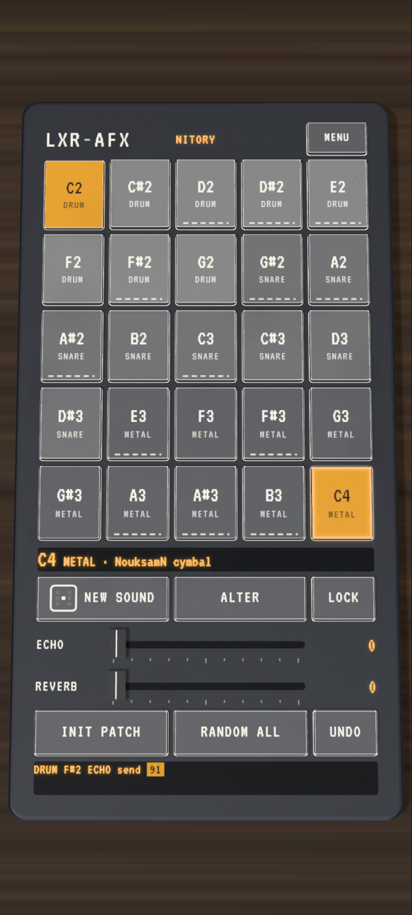
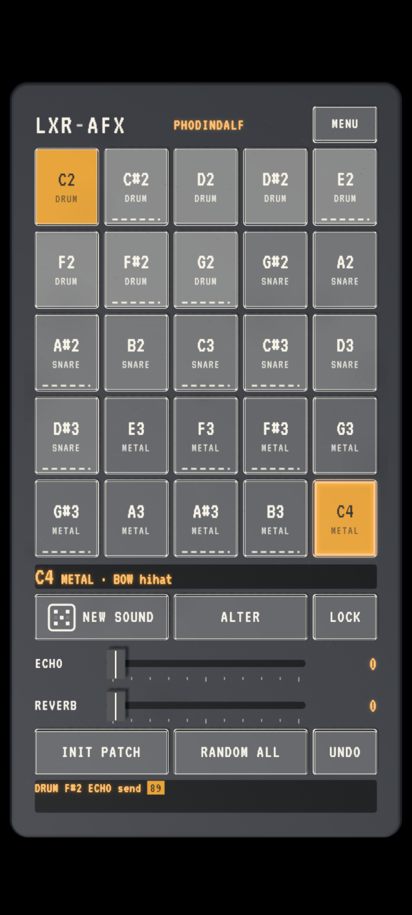
3D view: camera straight on, black around the panel (no desk)
Claude-Session: https://claude.ai/code/session_018ENZqU77miybkZNfffD9E3

diff --git a/app/view3d.js b/app/view3d.js
@@ -426,7 +426,7 @@ function setKnobGeo() {
   knobGeo.computeBoundingBox();
 }
 function build() {
-  scene = new THREE.Scene(); scene.background = new THREE.Color('#141516');
+  scene = new THREE.Scene(); scene.background = new THREE.Color('#000000'); // (Johnny: no desk, just blackness)
   camera = new THREE.PerspectiveCamera(24, 1, 100, 20000);
   const pm = new THREE.PMREMGenerator(renderer), room = new RoomEnvironment();
   env = pm.fromScene(room, 0.04).texture; scene.environment = env; scene.environmentIntensity = 0.5; pm.dispose();
@@ -453,7 +453,7 @@ function buildPanel() {
   const W = dim.w, H = dim.h;
   body = new THREE.Mesh(slab(W + 2 * MARGIN, H + 2 * MARGIN, THICK, 20, BEVEL, 0), bodyMat); body.castShadow = body.receiveShadow = true; scene.add(body);
   const q = quad(0, 0, W, H); face = new THREE.Mesh(q.g, faceMat); face.position.set(0, 0.06, 0); face.receiveShadow = true; scene.add(face);
-  desk = new THREE.Mesh(new THREE.PlaneGeometry(16000, 16000).rotateX(-Math.PI / 2), deskMat); desk.position.y = -THICK; desk.receiveShadow = true; scene.add(desk);
+  desk = new THREE.Mesh(new THREE.PlaneGeometry(16000, 16000).rotateX(-Math.PI / 2), deskMat); desk.position.y = -THICK; desk.receiveShadow = true; // (kept, not shown: Johnny wants blackness round the panel)
   const R = Math.max(W, H);
   keyL.position.set(-R * 0.45, R * 1.3, R * 0.35); fillL.position.set(R * 0.7, R * 0.9, R * 0.55); rimL.position.set(R * 0.1, R * 0.6, -R * 1.1);
   const small = phone || Math.min(screen.width, screen.height) <= 700;
@@ -618,12 +618,13 @@ function fit() {
   if (d !== dim || !face) { dim = d; hs.setProperty('--bpw', d.w + 'px'); hs.setProperty('--bph', d.h + 'px'); freezeMedia(); opts.onLayout?.(); buildPanel(); makeWear(); for (const o of objs.values()) drop(o); objs.clear(); }
   hs.setProperty('--bpk', Math.min(1, vw / dim.w, vh / dim.h));
   renderer.setPixelRatio(Math.min(devicePixelRatio || 1, 2)); renderer.setSize(vw, vh, false);
-  const tilt = (phone ? 12 : 19) * Math.PI / 180, hw = dim.w / 2 + MARGIN, hd = dim.h / 2 + MARGIN, mx = phone ? 0.035 : 0.03, my = phone ? 0.03 : 0.035;
+  const tilt = 0, // (Johnny: the camera looks straight on)
+    hw = dim.w / 2 + MARGIN, hd = dim.h / 2 + MARGIN, mx = phone ? 0.035 : 0.03, my = phone ? 0.03 : 0.035;
   camera.fov = phone ? 26 : 22; camera.aspect = vw / vh;
   const pts = [[-hw, 0, -hd], [hw, 0, -hd], [-hw, 0, hd], [hw, 0, hd], [-hw, -THICK, hd], [hw, -THICK, hd], [-hw, 24, -hd], [hw, 24, -hd]];
   let D = 4000, tz = 0;
   for (let i = 0; i < 16; i++) {
-    camera.position.set(0, D * Math.cos(tilt), tz + D * Math.sin(tilt)); camera.lookAt(0, 0, tz); camera.near = D * 0.3; camera.far = D * 4; camera.updateProjectionMatrix(); camera.updateMatrixWorld(true);
+    camera.up.set(0, 0, -1); camera.position.set(0, D * Math.cos(tilt), tz + D * Math.sin(tilt)); camera.lookAt(0, 0, tz); camera.near = D * 0.3; camera.far = D * 4; camera.updateProjectionMatrix(); camera.updateMatrixWorld(true);
     let x0 = 9, x1 = -9, y0 = 9, y1 = -9;
     for (const p of pts) { tmp.set(p[0], p[1], p[2]).project(camera); x0 = Math.min(x0, tmp.x); x1 = Math.max(x1, tmp.x); y0 = Math.min(y0, tmp.y); y1 = Math.max(y1, tmp.y); }
     D *= Math.max((x1 - x0) / (2 - 2 * mx), (y1 - y0) / (2 - 2 * my));

diff --git a/app/main.js b/app/main.js
@@ -1,13 +1,13 @@
 // LXR-AFX: the page. Seven sounds on MIDI channels 1 to 7; every key from C1 to C5 plays a morph of its sound (C3 plays
 // the base). The editor changes the base; the morphs follow from it. The sound engine is in sound/ (no UI here).
 import { SOUNDS, VOICE_SCHEMAS, INIT_VALUES, PAGES, PAR, PAN_RANGE, MOD_TARGETS, MOD_TARGET_VOICE_RANGES, NUM_PARAMS, ALL_PARAMS,
-  voiceOwned, voiceOfTarget, showValue, parseSnd, seqOnPar, seqPatPar, soundOfNote, mapVoice, setZoneStart, DEFAULT_ZONE_START, trimPar, trimDb, TRIM_ZERO, sendPar } from '../sound/schema.js?v=mwl8ki9h';
-import { presetName } from './names.js?v=mwl8ki9h';
-import { autoTrim, LEVEL_TARGET_DB } from '../sound/level.js?v=mwl8ki9h';
-import { morphKey, combinedAmount, newSeed, pitchOffset, keyDistance, BASE_NOTE } from '../sound/morph.js?v=mwl8ki9h';
-import { KIT_FILES } from '../sound/kits.js?v=mwl8ki9h';
-import { FX_DEFAULTS, echoMs, ECHO_DIVS } from '../sound/instrument.js?v=mwl8ki9h';
-import { DIRT_DEFAULTS, dirtHz, scHz, decayMs, volDb, pregainDb, bassDb } from '../sound/dirt.js?v=mwl8ki9h';
+  voiceOwned, voiceOfTarget, showValue, parseSnd, seqOnPar, seqPatPar, soundOfNote, mapVoice, setZoneStart, DEFAULT_ZONE_START, trimPar, trimDb, TRIM_ZERO, sendPar } from '../sound/schema.js?v=mwl8wd97';
+import { presetName } from './names.js?v=mwl8wd97';
+import { autoTrim, LEVEL_TARGET_DB } from '../sound/level.js?v=mwl8wd97';
+import { morphKey, combinedAmount, newSeed, pitchOffset, keyDistance, BASE_NOTE } from '../sound/morph.js?v=mwl8wd97';
+import { KIT_FILES } from '../sound/kits.js?v=mwl8wd97';
+import { FX_DEFAULTS, echoMs, ECHO_DIVS } from '../sound/instrument.js?v=mwl8wd97';
+import { DIRT_DEFAULTS, dirtHz, scHz, decayMs, volDb, pregainDb, bassDb } from '../sound/dirt.js?v=mwl8wd97';
 
 const $ = (id) => document.getElementById(id);
 const clamp = (v, lo, hi) => (v < lo ? lo : v > hi ? hi : v);
@@ -80,7 +80,7 @@ const send = (m) => { if (node) node.port.postMessage(m); };
 async function startAudio() {
   if (ctx) { if (ctx.state !== 'running') await ctx.resume(); return; }
   ctx = new AudioContext({ latencyHint: 'interactive' });
-  await ctx.audioWorklet.addModule(new URL('../sound/worklet.js?v=mwl8ki9h', import.meta.url));
+  await ctx.audioWorklet.addModule(new URL('../sound/worklet.js?v=mwl8wd97', import.meta.url));
   node = new AudioWorkletNode(ctx, 'lxr-afx', { numberOfInputs: 0, outputChannelCount: [2] });
   node.port.onmessage = (e) => { if (e.data.type === 'peaks') { showPeaks(e.data.peaks); showGr(e.data.gr || 0); showSc(e.data.sc || 0); if (e.data.steps) showSteps(e.data.steps); } };
   node.connect(ctx.destination);
@@ -1653,7 +1653,7 @@ function drawView() {
 async function setView(on, keep) {
   if (on && !is3d) {
     try {
-      v3d = v3d || await import('./view3d.js?v=mwl8ki9h');
+      v3d = v3d || await import('./view3d.js?v=mwl8wd97');
       const ok = v3d.start({ root: $('screen'), say: detail, on2d: () => setView(false, true), onLook: (open) => $('view-btn').setAttribute('aria-pressed', open),
         onLayout: () => { drawKeymap(); if (!phoneOn) alignEngines(); } });
       if (!ok) throw new Error('WebGL is not available');

diff --git a/css/lcd.css b/css/lcd.css
@@ -575,7 +575,7 @@ html.phone .pv { position: relative; display: grid; grid-template-columns: repea
 /* ---- 3D VIEW (app/view3d.js): the screen as a piece of hardware on a desk. The 2D screen above stays in the page,
    laid out at one fixed size underneath the 3D canvas: it is the blueprint the panel is built from, and its controls
    are the ones a press on the canvas is handed to. Menus open over the canvas, in the panel's colours ---- */
-html.v3d body { padding: 0; background: #141516; }
+html.v3d body { padding: 0; background: #000; }
 html.v3d .screen { position: fixed !important; left: 0; top: 0; z-index: 0; width: var(--bpw) !important; height: var(--bph) !important; max-width: none !important; margin: 0 !important;
   transform: scale(var(--bpk)) !important; transform-origin: 0 0 !important; animation: none; }
 #v3d { position: fixed; inset: 0; z-index: 5; display: block; width: 100%; height: 100%; touch-action: none; outline: none; -webkit-tap-highlight-color: transparent; }
@@ -611,5 +611,5 @@ html.phone #v3d-ui { font-size: 18px; }
 #v3d-lookbox button.sw[aria-pressed="true"] { border-color: var(--ink); box-shadow: 0 0 0 2px var(--panel), 0 0 0 4px var(--ink); }
 #v3d-lookbox input[type="range"] { width: 100%; min-width: 0; height: 30px; margin: 0; accent-color: var(--ink); touch-action: pan-y; }
 #v3d-lookbox output { min-width: 3.2em; text-align: right; font-size: 17px; }
-html.v3dw body { background: #141516; }
+html.v3dw body { background: #000; }
 html.v3dw .screen { opacity: 0; }

diff --git a/sound/instrument.js b/sound/instrument.js
@@ -10,8 +10,8 @@
 // The engine is the LXR-02 firmware's drum engine ported to JS (engine/lxr.js, sample exact). It runs at
 // 44 140 Hz in 64-sample blocks; render() resamples that to the output rate.
 import { LxrEngine, REAL_FS, BLOCK, FxBus, ReverbBus, Rng, FX_DELAY } from '../engine/lxr.js';
-import { SOUNDS, VOICE_SCHEMAS, SEND_BASE, REPEAT_BASE, SEQ_ON_BASE, SEQ_PAT_BASE, TRIM_BASE, trimDb, ALL_PARAMS } from './schema.js?v=mwl8ki9h';
-import { Dirt, DIRT_DEFAULTS } from './dirt.js?v=mwl8ki9h';
+import { SOUNDS, VOICE_SCHEMAS, SEND_BASE, REPEAT_BASE, SEQ_ON_BASE, SEQ_PAT_BASE, TRIM_BASE, trimDb, ALL_PARAMS } from './schema.js?v=mwl8wd97';
+import { Dirt, DIRT_DEFAULTS } from './dirt.js?v=mwl8wd97';
 
 // The two send effects (as in Elixir Desktop): the firmware's delay as an echo and its reverb (written for the firmware
 // but never switched on there), each a bus of its own, all wet, fed by every voice at its send and added

diff --git a/index.html b/index.html
@@ -8,7 +8,7 @@
 <link rel="preconnect" href="https://fonts.googleapis.com">
 <link rel="preconnect" href="https://fonts.gstatic.com" crossorigin>
 <link rel="stylesheet" href="https://fonts.googleapis.com/css2?family=VT323&display=swap">
-<link rel="stylesheet" href="css/lcd.css?v=mwl8ki9h">
+<link rel="stylesheet" href="css/lcd.css?v=mwl8wd97">
 <script>
 // a phone held upright gets the phone view from the first paint, before the wide screen can make the browser zoom out
 // (app/main.js keeps it in step after that). ?phone asks for it anywhere, ?desktop for the big screen on a phone
@@ -177,6 +177,6 @@
   }, 5000);
 })();
 </script>
-<script type="module" src="app/main.js?v=mwl8ki9h"></script>
+<script type="module" src="app/main.js?v=mwl8wd97"></script>
 </body>
 </html>

diff --git a/sound/level.js b/sound/level.js
@@ -7,7 +7,7 @@
 // range it counts most), in dB below digital full scale. The correction is kept on the key as its TRIM (trimPar in
 // schema.js), a gain of its own that the instrument applies to the voice: the LEVEL knob stays yours.
 import { LxrEngine, REAL_FS, BLOCK } from '../engine/lxr.js';
-import { SOUNDS, NUM_PARAMS, PAR, TRIM_ZERO, TRIM_STEP_DB } from './schema.js?v=mwl8ki9h';
+import { SOUNDS, NUM_PARAMS, PAR, TRIM_ZERO, TRIM_STEP_DB } from './schema.js?v=mwl8wd97';
 
 // each engine's target: the middle (median) loudness of all its sounds in the built-in kits, so a typical kit sound
 // plays as it always did and the drums, snares and metals keep the balance the kits were made with

diff --git a/sound/morph.js b/sound/morph.js
@@ -10,7 +10,7 @@
 //     amount  { pitch, timbre }: the combined depths, 0..1 each (global depth x sound depth x global x sound slider)
 //     voice   the engine voice (for its fine tune parameter)
 //   returns the note the engine is triggered with and the [parameter, value] pairs to send before the trigger
-import { pitchPars } from './schema.js?v=mwl8ki9h';
+import { pitchPars } from './schema.js?v=mwl8wd97';
 
 export const BASE_NOTE = 60; // the note the engine plays a sound at its own pitch (C3 in Novation / Ableton naming)
 export const MAX_PITCH = 12; // semitones either way at the far ends of the keyboard, at full depth

diff --git a/sound/worklet.js b/sound/worklet.js
@@ -6,7 +6,7 @@
 //   { type: 'back', sound, note, vel, params }  the zone back to an earlier held key, on the next RETURN step
 //   { type: 'release', sound }                  every key of the zone let go
 // It posts { type: 'peaks', peaks } about 30 times a second for the level lights.
-import { LxrInstrument } from './instrument.js?v=mwl8ki9h';
+import { LxrInstrument } from './instrument.js?v=mwl8wd97';
 
 registerProcessor('lxr-afx', class extends AudioWorkletProcessor {
   constructor() {

diff --git a/README.md b/README.md
@@ -5,7 +5,7 @@ An AFX-mode drum instrument in the browser: three sounds on one MIDI channel, ev
 
 ![LXR-AFX at 1440 × 900](docs/screenshot-3d.png)
 
-- **It opens as a 3D panel**, a piece of hardware on a desk drawn with three.js (WebGL): a bevelled metal panel with
+- **It opens as a 3D panel**, a piece of hardware seen straight on against black, drawn with three.js (WebGL): a bevelled metal panel with
   everything printed on it, real knobs with pointer marks, buttons that go down when pressed and light up when on,
   faders, displays and LEDs that glow, soft shadows. Every control works as on the flat screen: drag a knob up or down,
   slide a fader, press a button, double-click to reset; by mouse or touch, several fingers at once on a phone. It draws
